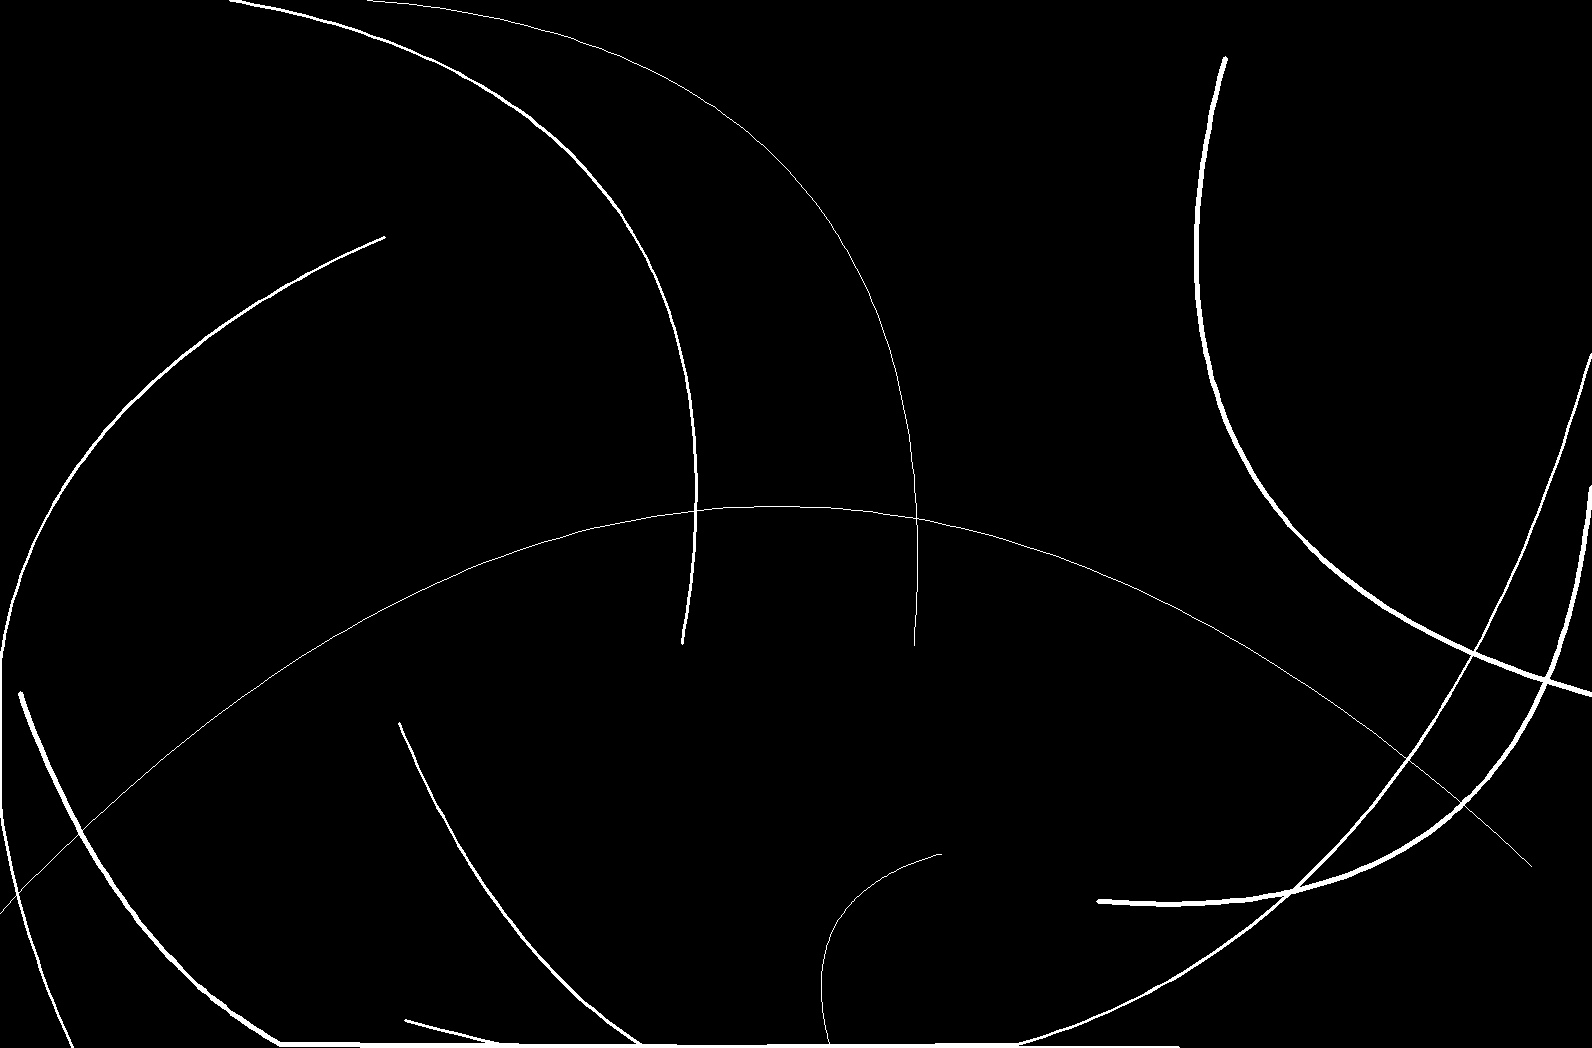
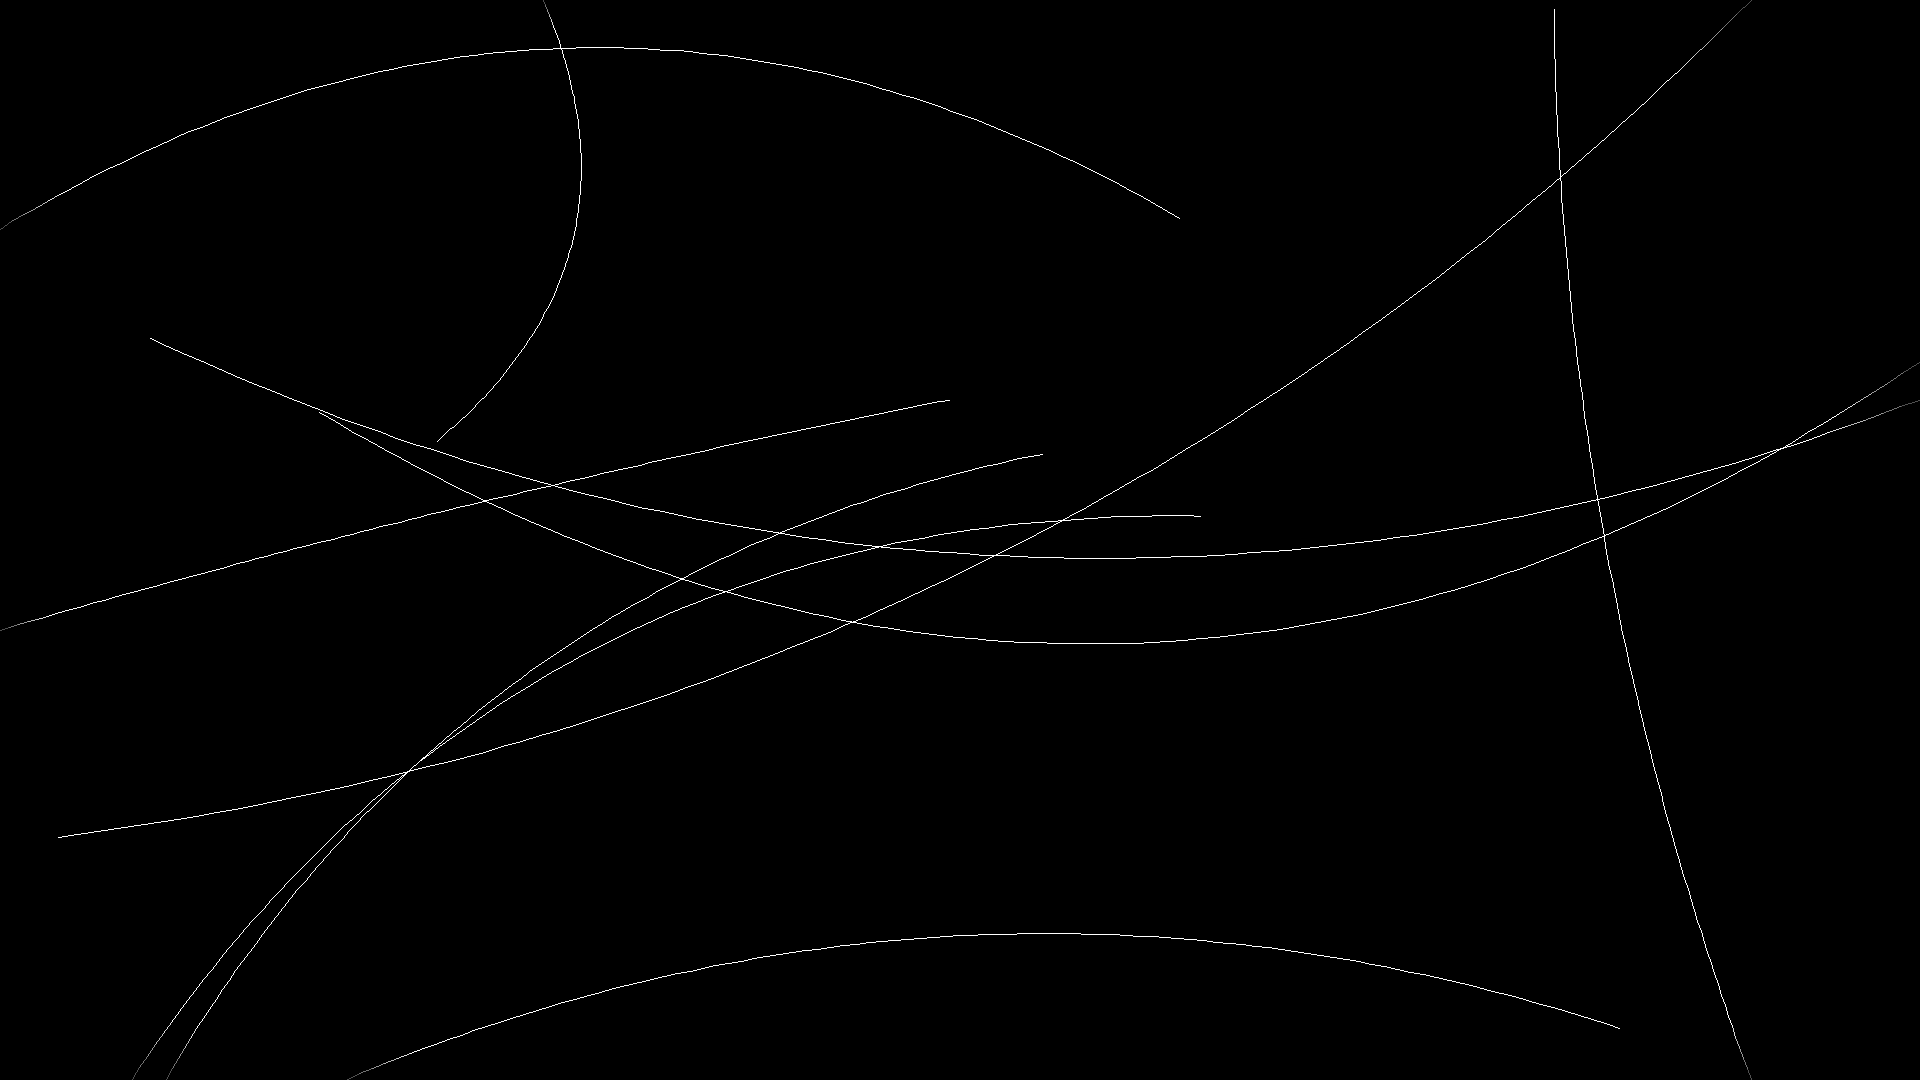
another

diff --git a/hair_generation/src/mask_generation.py b/hair_generation/src/mask_generation.py
@@ -12,7 +12,7 @@ def add_gaussian_noise(mask, mean=0, std=10):
     noisy_mask = np.clip(mask.astype(np.int16) + noise, 0, 255).astype(np.uint8)
     return noisy_mask
 
-def generate_bezier_hair_mask(width=512, height=512, num_hairs=200, curvature_mean=0.5):
+def generate_bezier_hair_mask(width=512, height=512, num_hairs=200, curvature_mean=0.5, noise_factor=0.1):
     mask = np.zeros((height, width), dtype=np.uint8)
 
     border_points = np.array([[0, i] for i in np.arange(0, height)] + 
@@ -31,7 +31,7 @@ def generate_bezier_hair_mask(width=512, height=512, num_hairs=200, curvature_me
         direction = direction / np.linalg.norm(direction)
         
         curvature =  np.random.normal(curvature_mean, 0.1)
-        print (f"curvature: {curvature}")
+        # print (f"curvature: {curvature}")
         offset = curvature * np.linalg.norm(p2 - p0) * direction
         p1 = mid + offset  
 
@@ -42,10 +42,24 @@ def generate_bezier_hair_mask(width=512, height=512, num_hairs=200, curvature_me
 
         curve_points = curve_points.reshape((-1, 1, 2))
 
-        thickness = random.randint(1, 3)
-        cv2.polylines(mask, [curve_points], isClosed=False, color=255, thickness=thickness)
+        # Hair root simulation
+        thickness = random.randint(1,2)
+        fade_fraction = 0.05  # only first 5% will fade
+        fade_length = int(len(curve_points) * fade_fraction)
 
-    mask = add_gaussian_noise(mask, mean=0, std=0.2) 
+        for i in range(len(curve_points) - 1):
+            start_point = tuple(curve_points[i][0])
+            end_point = tuple(curve_points[i + 1][0])
+
+            if i < fade_length:
+                intensity = int(80 + (175 * i / fade_length))
+            else:
+                intensity = 255
+
+            intensity = int(np.clip(intensity, 0, 255))
+            cv2.line(mask, start_point, end_point, color=(intensity,), thickness=thickness)
+
+    mask = add_gaussian_noise(mask, mean=noise_factor, std=0.1) 
     return mask
 
 # mask = generate_bezier_hair_mask(1024, 1024, 10)
@@ -55,15 +69,17 @@ def show_mask(mask, prompt_save=False):
     cv2.waitKey(0)
     cv2.destroyAllWindows()
     saved_name = "null"
+    choice = ''
     if prompt_save:
         save = input('Save mask? (y/n): ')
-        if save.lower() == 'y':
+        choice = save.lower()
+        if choice == 'y':
             filename = input('Enter filename: ')
             cv2.imwrite(f'../images/masks/{filename}.png', mask)
             print('Mask saved successfully!')
-    if prompt_save and save.lower() == 'y':
+    if prompt_save and choice == 'y':
         saved_name = filename
-    return saved_name, save.lower() == 'y'
+    return saved_name, choice == 'y'
 
 if __name__ == '__main__':
     mask = generate_bezier_hair_mask(241, 177, 10)

diff --git a/hair_generation/src/mask_impose.py b/hair_generation/src/mask_impose.py
@@ -11,22 +11,22 @@ colors = {
 }
 
 def impose_mask(image, mask, hair_color='dark_brown', alpha=0.8):
-    mask_3ch = cv2.cvtColor(mask, cv2.COLOR_GRAY2BGR)
+    mask = mask.astype(np.float32) / 255.0  # Normalize mask to [0, 1]
+    mask_3ch = cv2.cvtColor(mask, cv2.COLOR_GRAY2BGR)  # 3 channels
 
     colored_hairs = np.full_like(image, colors[hair_color], dtype=np.uint8)
 
-    # blend the colored hairs with the original image
-    colored_hairs = cv2.addWeighted(colored_hairs, alpha, image, 1 - alpha, 0)
+    # Blend colored hairs and original image based on mask value and alpha
+    blended = (image * (1 - alpha * mask_3ch) + colored_hairs * (alpha * mask_3ch)).astype(np.uint8)
 
-    final_image = np.where(mask_3ch == 255, colored_hairs, image)
-
-    return final_image
+    return blended
 
 def run():
     image_path = sys.argv[1]
     num_hairs = int(sys.argv[2])
     curvature = float(sys.argv[3])
     hair_color = sys.argv[4]
+    alpha = float(sys.argv[5])
 
     image = cv2.imread(image_path)
     image_width = image.shape[1]
@@ -34,7 +34,7 @@ def run():
 
     mask = generate_bezier_hair_mask(image_width, image_height, num_hairs, curvature)
     saved_name, was_saved = show_mask(mask, prompt_save=True)
-    masked_image = impose_mask(image, mask, hair_color=hair_color)
+    masked_image = impose_mask(image, mask, hair_color=hair_color, alpha=alpha)
     cv2.imshow('masked_image', masked_image)
     cv2.waitKey(0)
     if was_saved:
